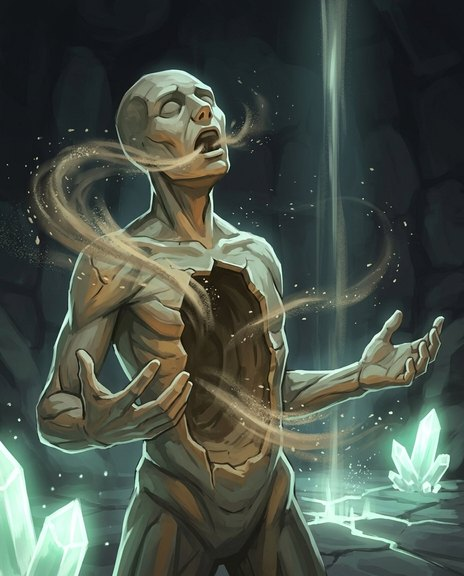
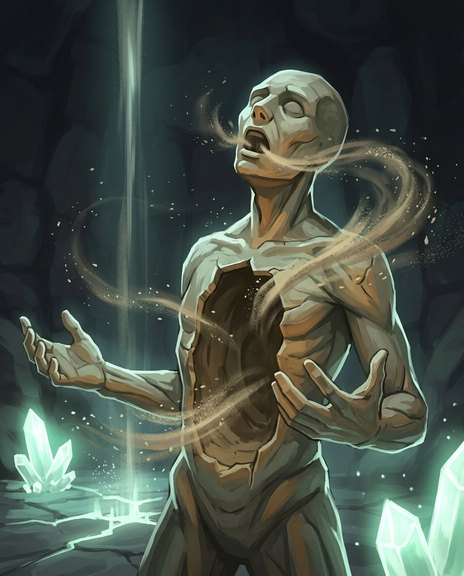
Повороты по корпусу: Лаэйра и Пустотелый вернулись к исходникам
Автор: направление определяет корпус, а не взгляд. В отражённом виде
Лаэйра и Пустотелый стояли спиной к противнику. Выгрузка с новой версией.

diff --git a/design/ui/index.html b/design/ui/index.html
@@ -1315,7 +1315,7 @@ body.phone .p-device-inner{border-radius:0;width:100%;height:100%}
 const ASSET = window.EN_ASSET || '../enerium/assets/';
 const A = p => ASSET + p;
 const ART = n => A('art/' + n);
-const ART_V = '912b521e';   // версия выгрузки арта — её ставит tools/art-gen/export_ui.py, чтобы браузер не брал старые картинки из кэша
+const ART_V = '78d68b59';   // версия выгрузки арта — её ставит tools/art-gen/export_ui.py, чтобы браузер не брал старые картинки из кэша
 const AV = n => ART(n) + '?v=' + ART_V;
 const PATH = n => A('path-icons/path-' + String(n).padStart(2, '0') + '.jpg');
 /* Арт врагов — основа ADR-0013, арена — вторая раскладка; выгрузка tools/art-gen/export_ui.py */

diff --git a/art/style/style.md b/art/style/style.md
@@ -65,7 +65,7 @@
 | Эффект: бафф, дебафф | 1:1, прозрачный фон | Круглый медальон на 20–28 px. Полезный — бирюзовая нить по ободу, вредный — ржаво-красная |
 | Способность | 1:1 | Живопись в край, рамку даёт интерфейс |
 
-На карте герой всегда смотрит вправо, на врагов, а враг — влево, на героев (решение автора 27.09.2026). В промте так и пишем. Готовый арт, повёрнутый не туда, отражаем при выгрузке в прототип: `mirror` в `tools/art-gen/ui-art.json`.
+На карте герой всегда смотрит вправо, на врагов, а враг — влево, на героев (решение автора 27.09.2026). Направление определяет корпус, а не взгляд: корпус развёрнут к противнику. В промте так и пишем. Готовый арт, повёрнутый не туда, отражаем при выгрузке в прототип: `mirror` в `tools/art-gen/ui-art.json`.
 
 ## Метки карт
 

diff --git a/docs/progress/2026-09-27-проект-боя.md b/docs/progress/2026-09-27-проект-боя.md
@@ -26,3 +26,4 @@
   - отражены Долгорукий и Подмастерье — смотрели вправо.
 - Подводный камень: после отражения картинки выгружались под прежними именами, и браузер показывал старые из кэша — поэтому автор видел героев повёрнутыми не туда. Теперь `export_ui.py` пишет в `index.html` версию выгрузки — хеш картинок, и адреса меняются сами.
 - Подводный камень: в скрытой панели браузер не вызывает `requestAnimationFrame` — панорама запускается через пересчёт стилей.
+- Повороты сверены по корпусу, а не по взгляду, — так попросил автор: корпус героя развёрнут вправо, к врагам, корпус врага — влево. Лаэйра и Пустотелый вернулись к исходникам: в отражённом виде стояли спиной к противнику.
